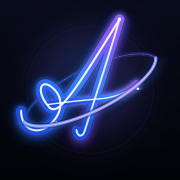
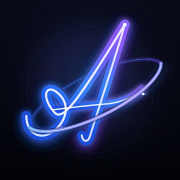
feat: v3.3.2 — 主畫面圖標往右下移動、圖標調整說明

Changed region(s): [[0.0556, 0.0556, 0.9167, 0.8611]]

diff --git a/index.html b/index.html
@@ -15,12 +15,12 @@
     <meta name="apple-mobile-web-app-status-bar-style" content="default" />
     <meta name="apple-mobile-web-app-title" content="Aster" />
     <meta name="format-detection" content="telephone=no" />
-    <link rel="apple-touch-icon" href="/apple-touch-icon.png?v=3.2.0" />
-    <link rel="apple-touch-icon" sizes="180x180" href="/icons/apple-touch-icon.png?v=3.2.0" />
-    <link rel="apple-touch-icon-precomposed" href="/apple-touch-icon.png?v=3.2.0" />
-    <link rel="icon" type="image/svg+xml" href="/icons/favicon.svg?v=3.2.0" />
-    <link rel="icon" type="image/png" sizes="32x32" href="/icons/favicon-32.png?v=3.2.0" />
-    <link rel="manifest" href="/manifest.webmanifest?v=3.2.0" />
+    <link rel="apple-touch-icon" href="/apple-touch-icon.png?v=3.3.2" />
+    <link rel="apple-touch-icon" sizes="180x180" href="/icons/apple-touch-icon.png?v=3.3.2" />
+    <link rel="apple-touch-icon-precomposed" href="/apple-touch-icon.png?v=3.3.2" />
+    <link rel="icon" type="image/svg+xml" href="/icons/favicon.svg?v=3.3.2" />
+    <link rel="icon" type="image/png" sizes="32x32" href="/icons/favicon-32.png?v=3.3.2" />
+    <link rel="manifest" href="/manifest.webmanifest?v=3.3.2" />
     <!-- iOS 啟動畫面（由 scripts/gen-icons.mjs 產生） -->
     <link rel="apple-touch-startup-image" href="/splash/splash-1320x2868.png" media="(device-width: 440px) and (device-height: 956px) and (-webkit-device-pixel-ratio: 3) and (orientation: portrait)">
     <link rel="apple-touch-startup-image" href="/splash/splash-1290x2796.png" media="(device-width: 430px) and (device-height: 932px) and (-webkit-device-pixel-ratio: 3) and (orientation: portrait)">

diff --git a/src/ui/Icon.tsx b/src/ui/Icon.tsx
@@ -60,6 +60,9 @@ export function Icon({ name, size = 22, stroke = 1.8, className }: { name: IconN
 }
 
 /** App 3D 星軌草寫 A 品牌 Logo（與 App 圖標同源） */
+/** ★ 應用程式內 Logo（底部中央按鈕、載入畫面等）的位置微調：x 正數往右、y 正數往下（1024 畫布上的像素） */
+const LOGO_OFFSET = { x: 0, y: 0 };
+
 export function Logo({ className = 'logo' }: { className?: string }) {
   return (
     <svg className={className} viewBox="0 0 1024 1024" fill="none" aria-hidden="true">
@@ -80,6 +83,7 @@ export function Logo({ className = 'logo' }: { className?: string }) {
         </linearGradient>
       </defs>
 
+      <g transform={`translate(${LOGO_OFFSET.x} ${LOGO_OFFSET.y})`}>
       {/* 身後星軌 */}
       <g transform="rotate(-26 512 512)">
         <path d="M 96,512 A 420 140 0 0 1 928,512" stroke="url(#lg-ring-back)" strokeWidth="28" strokeLinecap="round" />
@@ -133,6 +137,7 @@ export function Logo({ className = 'logo' }: { className?: string }) {
       </g>
 
       <circle cx="680" cy="110" r="12" fill="#FFFFFF" />
+      </g>
     </svg>
   );
 }

diff --git a/server/app/main.py b/server/app/main.py
@@ -127,7 +127,7 @@ async def lifespan(_: FastAPI):
 def create_app() -> FastAPI:
     s = get_settings()
     app = FastAPI(
-        title="Aster API", version="3.3.1", lifespan=lifespan,
+        title="Aster API", version="3.3.2", lifespan=lifespan,
         docs_url="/api/docs" if s.env != "production" else None, redoc_url=None, openapi_url="/api/openapi.json" if s.env != "production" else None,
     )
 

diff --git a/docs/ICONS.md b/docs/ICONS.md
@@ -1,0 +1,29 @@
+# 自己調整圖標
+
+## 1. iOS 主畫面圖標（以及 App 圖標、啟動畫面、分頁小圖示）
+來源只有一個：`assets/icon.svg`（1024×1024）。
+
+1. 打開 `assets/icon.svg`，找到 `<g id="art" transform="translate(30 30)">`。
+2. 改 `translate(X Y)` 的兩個數字：**X 正數＝往右、負數＝往左；Y 正數＝往下、負數＝往上**，單位是 1024 畫布上的像素（30 約是 3%）。想再靠右下一點就加大，想回正中間就改成 `translate(0 0)`。
+3. 重新產生所有圖標：
+   ```bash
+   npm run icons
+   ```
+4. 看一下 `public/icons/icon-512.png` 確認位置，再打包部署。
+5. iPhone 會快取主畫面圖標：**先刪掉主畫面上舊的 Aster，再用 Safari 重新「加入主畫面」**。`index.html` 裡的 `?v=版本號` 會跟著版本更新來避開快取（改圖標後記得升版本號）。
+
+想換顏色、粗細或圖案，也是直接改這個 SVG（漸層在最上面的 `<defs>`）。
+
+## 2. App 內的 Logo（底部中央按鈕、載入畫面等）
+`src/ui/Icon.tsx` 的 `Logo` 元件，最上面有一個常數：
+
+```ts
+const LOGO_OFFSET = { x: 0, y: 0 };
+```
+
+和上面一樣，x 正數往右、y 正數往下（1024 畫布上的像素）。改完存檔，開發時會立刻看到；部署時重新打包即可。
+
+載入畫面（開啟 App 的瞬間）用的是 `public/icons/icon-192.png`，它也是由 `npm run icons` 產生的。
+
+## 3. 底部導覽列其他圖示
+`src/ui/Icon.tsx` 最上面的 `PATHS`：每個圖示是一條 SVG path（24×24 畫布），可以直接換。大小在 `TabBar.tsx` 的 `<Icon size={20} />`。

diff --git a/CHANGELOG.md b/CHANGELOG.md
@@ -1,5 +1,10 @@
 # 變更紀錄
 
+## 3.3.2（2026-10-30）
+
+- **主畫面圖標往右下移動一點**：`assets/icon.svg` 的圖案整體以 `translate(30 30)` 偏移（約 3%），所有圖標、啟動畫面、favicon 已重新產生；`index.html` 的快取版本號更新為 3.3.2
+- 新增 `docs/ICONS.md`：說明如何自己調整主畫面圖標與 App 內 Logo 的位置（`LOGO_OFFSET`）
+
 ## 3.3.1（2026-10-30）
 
 - **還原登入鎖定行為**：撤銷「鎖定期間輸入正確密碼也能登入、且回 401 不顯示鎖定」的改動。連續失敗達門檻後帳號鎖定，鎖定期間即使密碼正確也不能登入（回 423 並提示剩餘分鐘），避免攻擊者在鎖定期間繼續猜密碼。保留 `CF-Connecting-IP` 的辨識
